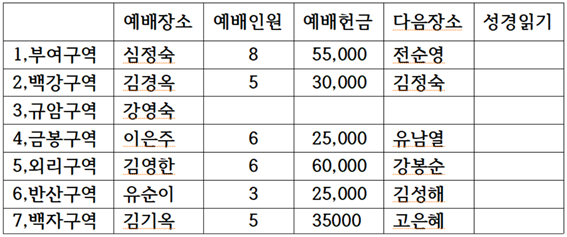
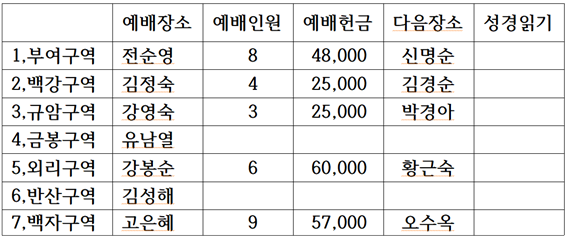
2023.1.22(ver1.0)

Changed region(s): [[0.0, 0.0, 1.0, 1.0]]

diff --git a/index.html b/index.html
@@ -65,7 +65,7 @@
       <h1 class="home__title">
         열린문교회<br>
       </h1>
-      <h2 class="home__description">제 4권 3호 2023년 1월 15일</h2>
+      <h2 class="home__description">제 4권 4호 2023년 1월 22일</h2>
       
       <!-- 아래는 타이틀임, 안쓸 때는 주석처리하기로 -->
       <!-- <h1 class="home__description_event">신년주일</h1> -->
@@ -96,8 +96,8 @@
 
       <h2>주일 낮 예배</h2>
       <ul class="ul1">
-          <li>사회: 오세웅 안수집사</li>
-          <li>다음주 사회: 최윤태 안수집사</li>
+          <li>사회: 최윤태 안수집사</li>
+          <li>다음주 사회: 조성돈 장로</li>
       </ul>
 
         <table>
@@ -108,7 +108,7 @@
               </tr>
               <tr>    
                   <th><i class="fas fa-male"></i> 찬송</th>
-                  <td>21장</td>
+                  <td>32장</td>
               </tr>
               <!-- <tr>
                   <th><i class="fas fa-male"></i> 교독문</th>
@@ -118,31 +118,30 @@
                   <td>사도신경</td>
               <tr>
                   <th>찬송</th>
-                  <td>321장</td>
+                  <td>310장</td>
               </tr>
               <tr>
                   <th>대표기도</th>
                   <td>
-                    1부 박요한 집사<br>
-                    2부 고승수 안수집사
+                    오세웅 안수집사
                   </td>
               </tr>
               <tr>
                   <th>성경봉독</th>
                   <td> 
-                    행 9 : 31, 딤전 4 ; 6-8
+                    히 11 : 13—16
                   </td>
               </tr>
               <tr>
                   <th>특송</th>
                   <td>
-                    아침 해가 돋을 때
+                    비전 찬양대
                   </td>
               </tr>
               <tr>
                 <th>봉헌</th>
                 <td>
-                  323장<br>
+                  450장<br>
                 </td>
               </tr>
               <tr>
@@ -157,7 +156,7 @@
                 <th>설교</th>
                 <td>
                   <strong>
-                    좋은 성도, 건강한 교회
+                    그리운 고향
                   </strong>
                 </td>
             </tr>
@@ -169,7 +168,7 @@
               <tr>
                 <th>찬송</th>
                 <td>
-                  320장
+                  저 멀리 뵈는 나의 시온성
                 </td>
               </tr>
               <tr>
@@ -199,7 +198,7 @@
                 <th>(다음주 기도)</th>
                 <td>
                   1부 고은혜 집사<br>
-                  2부 오세웅 안수집사
+                  2부 최윤태 안수집사
                 </td>
               </tr>
           </tbody>
@@ -216,7 +215,8 @@
   <!-- <li>1월 선교예배</li> -->
 </ul>
 <table>
-  <tbody>
+  <h3>가족과 함께 행복한 명절 되세요</h3>
+  <!-- <tbody>
     <tr>
       <th>경배와 찬양</th>
       <td>에바다 찬양단</td>
@@ -232,12 +232,12 @@
     <tr>
       <th>특송</th>
       <td>1 남전도회</td>
-    </tr>
+    </tr> -->
     <!-- <tr>
       <th>설교</th>
       <td>박태수 목사(새순교회)</td>
     </tr> -->
-    <tr>
+    <!-- <tr>
       <th>제목</th>
       <td>상처를 극복하는 길</td>
     </tr>
@@ -256,7 +256,7 @@
     <tr>
       <th>(다음주 기도)</th>
       <td>이희경 권사</td>    
-    </tr>
+    </tr> -->
     <!-- <tr>
       <th>(다음주 특송)</th>
       <td>3 여전도회</td>
@@ -285,11 +285,11 @@
       </tr> -->
       <tr>
         <th>성경</th>
-        <td>시 101 편</td>
+        <td>시 102 편</td>
       </tr>
       <tr>
         <th>찬송</th>
-        <td>488장</td>
+        <td>492장</td>
       </tr>
       <tr>
         <th>합심기도</th>
@@ -382,11 +382,12 @@
         </div>
         <h1 class="major__title">암송말씀</h1>
         <div class="major__description">
-          <p>사람이 마땅히 우리를 그리스도의 일꾼이요</p>
-          <p>하나님의 비밀을 맡은 
-            자로 여길지어다</p>
-          <p>그리고 맡은 자들에게 구할 것은 충성이니라</p>
-          <p>(고린도전서 4장 1,2절)</p>
+          <p>만군의 여호와여</p>
+          <p>주의 장막이 어찌 그리 사랑스러운지요</p>
+          <p>내 영혼이 여호와의 궁정을 사모하며 쇠약함이여</p>
+          <p>내 마음과 육체가 살아 계시는 하나님께</p>
+          <p>부르짖나이다.</p>
+          <p>(시편 84 : 1 ~ 2)</p>
         </div>
       </div>
     </section>
@@ -419,42 +420,35 @@
               </p><br>
 
               <p><a href="">2.</a>
-                새해에 주신 말씀을 묵상하며 성경통독에 도전하시기 바랍니다.(카드, 통독표)
+                즐겁고 행복한 명절 되세요. 저녁은 가족과 함께하시기 바랍니다.
               </p><br>
 
               <p><a href="">3.</a>
-                2부 예배 후 1여전도회 월례회가 있습니다.
+                새해의 말씀을 암송하고 성경통독에 도전합시다.(카드, 통독표)
               </p><br>
 
               <p><a href="">4.</a>
-                지방회 교역자 월례회 총회가 17일, 빛나는 교회에서 있습니다.
+                임직자 후보자 교육이 30.31일 오후7-10시에 있습니다.(논산제일교회)
+                30일 (장로, 권사, 안수, 명예권사—교육)<br>
+                31일 (장로--시험 및 면접)<br>
               </p><br>
 
               <p><a href="">5.</a>
-                어린이 겨울 소풍이 18일 (수)에 있습니다.(청양 알프스 마을)
+                금요일 노방전도(11시), 일용직근로자 섬김(토, 6시)
               </p><br>
 
               <p><a href="">6.</a>
-                임직자 후보자 교육이 30.31일 오후7-10시에 있습니다.(논산제일교회) <br>
-                30일 (장로, 권사, 안수, 명예권사--교육) <br>
-                31일 (장로--시험 및 면접) <br>
-              </p><br>
-
-              <p><a href="">7.</a>
-                금요일 노방전도(11시), 일용직근로자 섬김(수, 6시30분)
-              </p><br>
-
-              <p><a href="">8.</a>
                 교우소식—환우기도(윤여홍안수집사, 이미숙성도)
               </p><br>
 
-              <p><a href="">9.</a>
-                새벽을 깨우는 성도가 되시기를 바랍니다.(만나 송출이 없습니다)
+              <p><a href="">7.</a>
+                새벽을 깨우는 성도가 되시기를 바랍니다.
               </p><br>
 
-              <p><a href="">10.</a>
-                명절 순서지를 사용하여 가정예배 드리시기 바랍니다.
+              <p><a href="">8.</a>
+                2월 첫주부터 신년 대심방이 있습니다.(가정 혹은 사업장)
               </p><br>
+
               <!-- 다음달 예배위원 안내 -> 지우지 말고 주석 처리해서 활용하자 -->
               <!-- <p>
                 <a href="">다음달 헌금위원</a><br>
@@ -477,6 +471,7 @@
       <div class="slogan-img-box">
         <img class="slogan-img" src="image/mission.png">
         <img class="slogan-img" src="image/mission2.png">
+        <img class="slogan-img" src="image/mission3.png">
       </div>
     </section>
 
